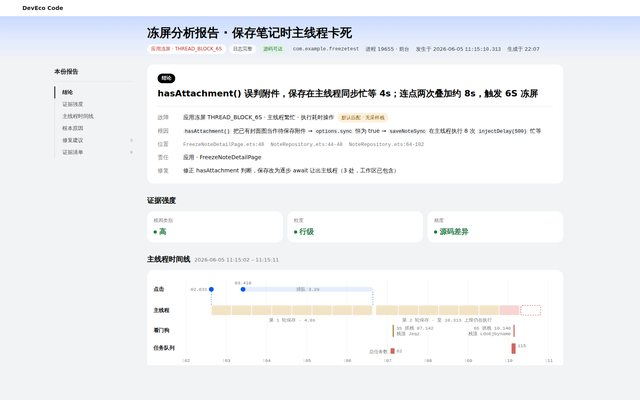
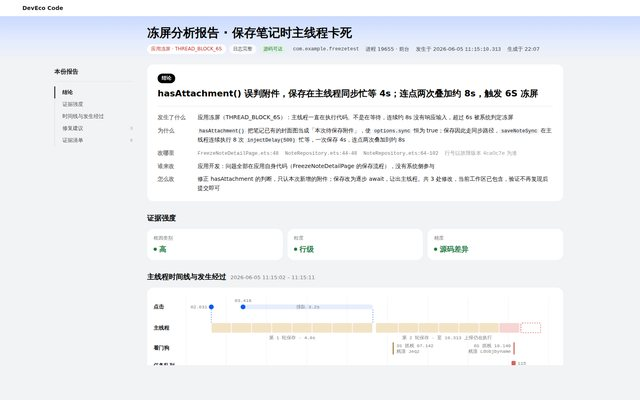
demo 28 结论五行写清楚；根本原因改为「发生经过」并入时间线并联动
结论五行标签改成问句：发生了什么 / 为什么 / 改哪里 / 谁来改 / 怎么改，内容
改成白话，仍取自原报告；结论里不再出现「根因」字样。

原「根本原因」改名「发生经过」，按时刻拆成步骤放进时间线卡片（图例紧贴图下）。
悬停某一步，时间线上高亮对应时刻或时段；悬停时间线，下方对应步骤高亮。左侧
目录合并为「时间线与发生经过」。

diff --git a/demos/28-appfreeze-report/index.html b/demos/28-appfreeze-report/index.html
@@ -70,8 +70,8 @@ h1{font-size:30px;font-weight:700;line-height:1.3;color:var(--ink)}
 /* 结论卡 */
 .verdict{padding:22px 26px}
 .vlabel{display:inline-flex;align-items:center;height:24px;padding:0 10px;border-radius:999px;background:var(--btn);color:#fff;font-size:12px;font-weight:600;margin-bottom:10px}
-.vrows{display:grid;grid-template-columns:48px minmax(0,1fr);gap:10px 16px;margin-top:16px;padding-top:16px;border-top:1px solid var(--line);font-size:14px;line-height:1.6}
-.vrows dt{color:var(--ink3)}
+.vrows{display:grid;grid-template-columns:84px minmax(0,1fr);gap:10px 16px;margin-top:16px;padding-top:16px;border-top:1px solid var(--line);font-size:14px;line-height:1.6}
+.vrows dt{color:var(--ink3);font-weight:600}
 .vrows dd{margin:0;color:var(--ink1);min-width:0;overflow-wrap:anywhere}
 .vrows dd .loc{white-space:normal}
 .vrows dd .loc{margin-right:16px}
@@ -87,6 +87,14 @@ h1{font-size:30px;font-weight:700;line-height:1.3;color:var(--ink)}
 #tl .ln{font-family:var(--font);font-size:13px;font-weight:600;fill:var(--ink1)}
 #tl .st{cursor:pointer;transition:opacity .15s}
 #tl .st:hover{opacity:.7}
+.story-t{font-size:15px;font-weight:700;color:var(--ink);margin:18px 0 8px;padding-top:16px;border-top:1px solid var(--line)}
+.story{list-style:none;display:flex;flex-direction:column;gap:8px;margin-bottom:6px}
+.story li{display:grid;grid-template-columns:128px minmax(0,1fr);gap:12px;font-size:14px;color:var(--ink2);line-height:1.6}
+.story li{border-radius:8px;padding:4px 8px;margin:0 -8px;transition:background .12s}
+.story li:not(.off){cursor:default}
+.story li.on{background:var(--soft)}
+.story li.on .t{color:var(--accent)}
+.story .t{font-family:var(--mono);font-size:12.5px;color:var(--ink1);padding-top:1px}
 .legend{display:flex;gap:16px;flex-wrap:wrap;font-size:12px;color:var(--ink3);margin-top:8px}
 .legend i{display:inline-block;width:10px;height:10px;border-radius:3px;margin-right:5px;vertical-align:-1px}
 .tip{position:fixed;z-index:90;pointer-events:none;background:#191919;color:#fff;border-radius:10px;padding:8px 10px;font-size:12px;line-height:1.5;max-width:420px;opacity:0;transition:opacity .1s}
@@ -94,10 +102,6 @@ h1{font-size:30px;font-weight:700;line-height:1.3;color:var(--ink)}
 .tip code{font-size:11.5px;color:#C9D7FF}
 
 /* 因果链 */
-.chain{padding:18px 22px}
-.chain ol{margin:0;padding:0;list-style:none;counter-reset:c;display:flex;flex-direction:column;gap:8px}
-.chain li{counter-increment:c;display:grid;grid-template-columns:24px 1fr;gap:8px;font-size:14px;color:var(--ink2)}
-.chain li::before{content:counter(c);width:22px;height:22px;border-radius:50%;background:var(--fill);display:grid;place-items:center;font-size:12px;color:var(--ink2);font-family:var(--mono)}
 
 /* 修复 */
 .fix{background:var(--paper);border-radius:var(--r-card);padding:18px 22px}
@@ -170,7 +174,7 @@ h1{font-size:30px;font-weight:700;line-height:1.3;color:var(--ink)}
 
 .fade{animation:fade .35s ease}
 @keyframes fade{from{opacity:.2;transform:translateY(4px)}to{opacity:1;transform:none}}
-@media (max-width:900px){.side{display:none}.wrap{padding:8px 16px 60px}.hero-in{padding:18px 16px 14px}.sub{padding:0 16px;gap:12px}h1{font-size:24px}.axes{grid-template-columns:1fr}.vrows{grid-template-columns:40px minmax(0,1fr)}}
+@media (max-width:900px){.side{display:none}.wrap{padding:8px 16px 60px}.hero-in{padding:18px 16px 14px}.sub{padding:0 16px;gap:12px}h1{font-size:24px}.axes{grid-template-columns:1fr}.vrows{grid-template-columns:1fr;gap:2px 0}.vrows dd{margin-bottom:8px}.story li{grid-template-columns:1fr;gap:0}}
 @media (prefers-reduced-motion:reduce){*{animation:none!important;transition:none!important}}
 
 .stack{display:flex;flex-direction:column;gap:28px;max-width:1040px}
@@ -207,8 +211,7 @@ h1{font-size:30px;font-weight:700;line-height:1.3;color:var(--ink)}
     <nav class="tree">
       <a href="#sec-verdict" data-s="sec-verdict">结论</a>
       <a href="#sec-strength" data-s="sec-strength">证据强度</a>
-      <a href="#sec-timeline" data-s="sec-timeline">主线程时间线</a>
-      <a href="#sec-chain" data-s="sec-chain">根本原因</a>
+      <a href="#sec-timeline" data-s="sec-timeline">时间线与发生经过</a>
       <a href="#sec-fix" data-s="sec-fix">修复建议<span class="n" id="nav-fixn">3</span></a>
       <a href="#sec-checks" data-s="sec-checks">证据清单<span class="n" id="nav-ckn">9</span></a>
     </nav>
@@ -314,26 +317,26 @@ const V = {
   v2: {
     title:'hasAttachment() 误判附件，保存在主线程同步忙等 4s；连点两次叠加约 8s，触发 6S 冻屏',
     rows:[
-      ['故障','应用冻屏 THREAD_BLOCK_6S · 主线程繁忙 · 执行耗时操作<span class="pill part">默认匹配 · 无采样栈</span>'],
-      ['根因','<code>hasAttachment()</code> 把已有封面图当作待保存附件 → <code>options.sync</code> 恒为 true → <code>saveNoteSync</code> 在主线程执行 8 次 <code>injectDelay(500)</code> 忙等'],
-      ['位置','<span class="loc">FreezeNoteDetailPage.ets:48</span><span class="loc">NoteRepository.ets:44-48</span><span class="loc">NoteRepository.ets:64-102</span>'],
-      ['责任','应用 · FreezeNoteDetailPage'],
-      ['修复','修正 hasAttachment 判断，保存改为逐步 await 让出主线程（3 处，工作区已包含）'],
+      ['发生了什么','应用冻屏（THREAD_BLOCK_6S）：主线程一直在执行代码、不是在等待，连续约 8s 没有响应输入，超过 6s 被系统判定冻屏'],
+      ['为什么','<code>hasAttachment()</code> 把笔记已有的封面图当成「本次待保存附件」，使 <code>options.sync</code> 恒为 true；保存因此走同步路径，<code>saveNoteSync</code> 在主线程连续执行 8 次 <code>injectDelay(500)</code> 忙等，一次保存 4s，连点两次叠加到约 8s'],
+      ['改哪里','<span class="loc">FreezeNoteDetailPage.ets:48</span><span class="loc">NoteRepository.ets:44-48</span><span class="loc">NoteRepository.ets:64-102</span><span class="muted">行号以故障版本 4ca0c7e 为准</span>'],
+      ['谁来改','应用开发：问题全部在应用自身代码（FreezeNoteDetailPage 的保存流程），没有系统侧参与'],
+      ['怎么改','修正 hasAttachment 的判断，只认本次新增的附件；保存改为逐步 await，让出主线程。共 3 处修改，当前工作区已包含，验证不再复现后提交即可'],
     ],
     axes:[['根因类别','高','yes'],['粒度','行级','yes'],['精度','源码差异','yes']],
-    chain:['用户在 CrashTestPage 开启冻屏测试模式，于 11:14:58 进入 FreezeNoteDetailPage，页面加载的笔记带封面图','11:15:02.631 点击「保存笔记」：hasAttachment() 按 thumbnailPath !== undefined 误判有附件，options.sync = true，saveNote 同步调用 saveNoteSync','saveNoteSync 在主线程顺序执行 8 次 injectDelay(500) 忙等（共 4.0s）；两次栈顶字节码与 state=R、utime 近满核互相印证：繁忙态','11:15:03.418 再次点击：首次点击仍在忙等，isSaving 的禁用态因主线程未返回事件循环、未重渲染而未生效','11:15:06.639 第 1 轮完成（4.0s），第 2 轮立即开始；主线程自 02.632 起连续占用约 8s，VIP 队列积压 105 个','HiCollie 先后于 11:15:07 触发 3S 告警、11:15:10.313 触发 6S 上报'],
+    chain:[['11:14:58','冻屏测试模式已开启，进入 FreezeNoteDetailPage，页面加载的笔记带封面图',null],['02.631','第 1 次点击保存：hasAttachment() 把封面图误判为附件，options.sync = true，saveNote 同步调用 saveNoteSync',[[2.631,2.631]]],['02.632 – 06.639','saveNoteSync 在主线程顺序执行 8 次 injectDelay(500) 忙等，共 4.0s；state=R、CPU 近满核',[[2.632,6.639]]],['03.418','第 2 次点击：主线程还没回到事件循环，保存中的禁用态没来得及重渲染，点击排进队列',[[3.418,6.639]]],['06.639','第 1 轮结束，第 2 轮立即开始；主线程自 02.632 起连续占用约 8s，VIP 队列积压 105 个',[[6.639,10.313]]],['07.142 / 10.140','3S、6S 两次抓栈，均在执行保存流水线；10.313 上报 6S 冻屏',[[7.142,7.142],[10.14,10.14],[10.313,10.313]]]],
   },
   v1: {
     title:'保存在主线程同步执行 saveNoteSync 流水线约 4s；连点两次叠加约 8s，触发 6S 冻屏',
     rows:[
-      ['故障','应用冻屏 THREAD_BLOCK_6S · 主线程繁忙 · 执行耗时操作<span class="pill part">默认匹配 · 无采样栈</span>'],
-      ['根因','Save 回调 <code>onSaveClick</code> 调用 <code>saveNote(sync=true)</code>，在主线程同步执行 8 步保存流水线，每步约 0.5s'],
-      ['位置','<span class="loc">A00000/FreezeNoteDetail · onSaveClick</span><span class="loc">A00000/NoteRepository · saveNoteSync</span><span class="muted">行号不可用</span>'],
-      ['责任','应用 · FreezeNoteDetailPage'],
-      ['修复','保存流水线移入 TaskPool，保存增加进行中守卫（通用方向）'],
+      ['发生了什么','应用冻屏（THREAD_BLOCK_6S）：主线程一直在执行代码、不是在等待，连续约 8s 没有响应输入，超过 6s 被系统判定冻屏'],
+      ['为什么','点击保存后，<code>onSaveClick</code> 调用 <code>saveNote(sync=true)</code>，在主线程同步执行 8 步保存流水线，每步约 0.5s，一次保存约 4s；第 1 次还没跑完又点了一次，两轮叠加到约 8s'],
+      ['改哪里','<span class="loc">onSaveClick（FreezeNoteDetail）</span><span class="loc">saveNoteSync（NoteRepository）</span><span class="muted">未检索源码，只能定位到函数，没有行号</span>'],
+      ['谁来改','应用开发：问题在应用自身代码（FreezeNoteDetailPage 的保存流程），没有系统侧参与'],
+      ['怎么改','把保存流水线移到 TaskPool 后台线程执行，并在保存进行中禁止重复点击。这是通用方向，需要对照源码确认后再改'],
     ],
     axes:[['根因类别','高','yes'],['粒度','业务函数','part'],['精度','通用方向与模板','part']],
-    chain:['用户在 FreezeNoteDetailPage（11:14:58.240 切入）点击 Save，onSaveClick 调用 NoteRepository.saveNote(sync=true)','主线程同步执行 saveNoteSync 保存流水线：写库 → 搜索索引 → 附件引用 → 标签关联 → 分类归属 → 缩略图元数据 → 云同步排队 → 偏好清理，每步约 0.5s，单轮约 4.0s','第 1 轮执行期间（11:15:03.418）用户再次点击，第 2 个 MMITask 排队至 11:15:06.639 分发，第 2 轮紧接执行','主线程连续约 8s 满负荷执行 ArkTS 字节码，EventHandler 队列 62 → 115，vSync 与输入均被阻塞','11:15:07 触发 3S 告警，11:15:10.313 触发 6S 冻屏上报'],
+    chain:[['11:14:58','进入 FreezeNoteDetailPage',null],['02.631','第 1 次点击 Save：onSaveClick 调用 NoteRepository.saveNote(sync=true)，在主线程同步执行 saveNoteSync',[[2.631,2.631]]],['02.632 – 06.639','保存流水线 8 步（写库 → 搜索索引 → 附件引用 → 标签关联 → 分类归属 → 缩略图元数据 → 云同步排队 → 偏好清理），每步约 0.5s，共 4.0s',[[2.632,6.639]]],['03.418','第 2 次点击：排队到 06.639 才分发',[[3.418,6.639]]],['06.639','第 2 轮紧接执行；主线程连续约 8s 满负荷，EventHandler 队列 62 → 115',[[6.639,10.313]]],['07.142 / 10.140','3S、6S 两次抓栈；10.313 上报 6S 冻屏',[[7.142,7.142],[10.14,10.14],[10.313,10.313]]]],
   }
 };
 
@@ -393,15 +396,12 @@ function render(anim){
     </section>
 
     <section id="sec-timeline">
-      <div class="sec-t"><h2>主线程时间线</h2><span class="sub2">2026-06-05 11:15:02 – 11:15:11</span></div>
+      <div class="sec-t"><h2>主线程时间线与发生经过</h2><span class="sub2">2026-06-05 11:15:02 – 11:15:11</span></div>
       <div class="chart"><svg id="tl" viewBox="0 0 1000 222"></svg>
         <div class="legend"><span><i style="background:#F3E3C6"></i>保存流水线的一步（约 500ms）</span><span><i style="background:var(--no-soft)"></i>单任务执行超过 3s</span><span><i style="background:var(--accent);border-radius:50%"></i>点击</span><span><i style="background:rgba(10,89,247,.18)"></i>点击排队等待</span></div>
+        <h3 class="story-t">发生经过</h3>
+        <ol class="story" id="story">${d.chain.map(([t,x,r],i)=>`<li data-i="${i}" class="${r?'':'off'}"><span class="t">${t}</span><span>${esc(x)}</span></li>`).join('')}</ol>
       </div>
-    </section>
-
-    <section id="sec-chain">
-      <div class="sec-t"><h2>根本原因</h2></div>
-      <div class="card chain"><ol>${d.chain.map(x=>`<li><span>${esc(x)}</span></li>`).join('')}</ol></div>
     </section>
 
     <section id="sec-fix">
@@ -453,7 +453,7 @@ const X0=80, PX=100;
 const tx=s=>X0+(parseFloat(s)-2)*PX;
 function drawTimeline(){
   const svg=$('#tl'); if(!svg) return;
-  const Y={click:34,main:86,dog:136,queue:180}, axisY=214; let g='';
+  const Y={click:34,main:86,dog:136,queue:180}, axisY=214; let g='<g id="hl"></g>';
   for(let s=2;s<=11;s++){const x=tx(s);g+=`<line x1="${x}" y1="10" x2="${x}" y2="${axisY-12}" stroke="rgba(0,0,0,.06)"/><text x="${x}" y="${axisY}" text-anchor="middle">:${String(s).padStart(2,'0')}</text>`;}
   [['点击',Y.click],['主线程',Y.main],['看门狗',Y.dog],['任务队列',Y.queue]].forEach(([n,y])=>g+=`<text class="ln" x="0" y="${y+4}">${n}</text>`);
   // 点击：第 2 次点击到被分发之间画成水平「排队」条，终点对齐第 2 轮开始
@@ -482,6 +482,24 @@ function drawTimeline(){
   g+=`<text x="${tx(7.127)-12}" y="${base-2}" text-anchor="end">总任务数</text>`;
   svg.innerHTML=g;
 }
+
+/* ---------- 时间线 ⇄ 发生经过 联动 ---------- */
+function highlight(i){
+  const hl=$('#hl'); if(!hl) return;
+  $$('#story li').forEach(li=>li.classList.toggle('on',+li.dataset.i===i));
+  const step=i==null?null:V[mode].chain[i]; const r=step&&step[2];
+  hl.innerHTML=r?r.map(([a,b])=>`<rect x="${tx(a)-4}" y="6" width="${Math.max(8,tx(b)-tx(a)+8)}" height="196" rx="4" fill="rgba(10,89,247,.10)"/>`).join(''):'';
+}
+document.addEventListener('mouseover',e=>{const li=e.target.closest('#story li'); if(li && !li.classList.contains('off')) highlight(+li.dataset.i);});
+document.addEventListener('mouseout',e=>{if(e.target.closest('#story li') && !e.relatedTarget?.closest?.('#story li')) highlight(null);});
+document.addEventListener('mousemove',e=>{
+  const svg=e.target.closest('#tl'); if(!svg) return;
+  const pt=svg.createSVGPoint(); pt.x=e.clientX; pt.y=e.clientY; const x=pt.matrixTransform(svg.getScreenCTM().inverse()).x;
+  const t=(x-X0)/PX+2; let best=null, bw=1e9;
+  V[mode].chain.forEach((c,i)=>(c[2]||[]).forEach(([a,b])=>{const pad=a===b?.12:.06; if(t>=a-pad&&t<=b+pad&&(b-a)<bw){bw=b-a;best=i;}}));
+  highlight(best);
+});
+document.addEventListener('pointerout',e=>{if(e.target.closest&&e.target.closest('#tl')&&!e.relatedTarget?.closest?.('#tl')) highlight(null);});
 
 /* ---------- 交互：切换版本、展开证据、目录高亮、时间线悬停看原日志 ---------- */
 document.addEventListener('click',e=>{
